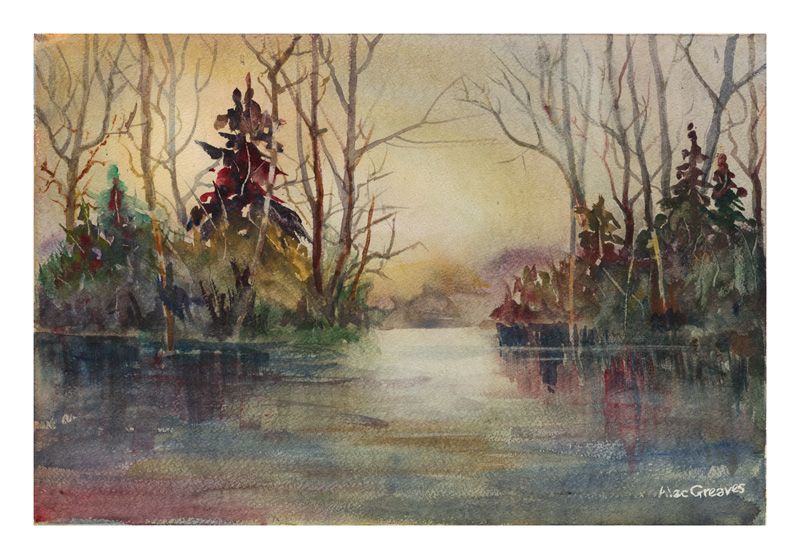
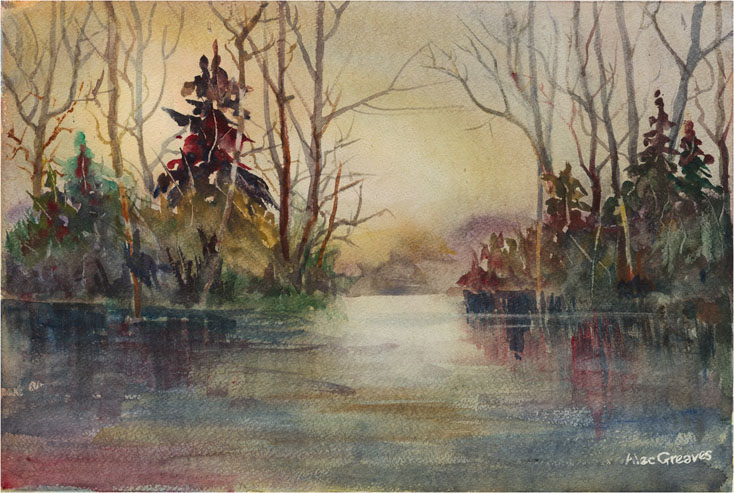
add better hazy morning image

diff --git a/index.html b/index.html
@@ -19,10 +19,10 @@ layout: default
 	<img src="images/harbour-boats.jpg">
 	<span>Harbour Boats</span>
 </div>
-<!-- <div class="painting">
+<div class="painting">
         <img src="images/hazy-morning.jpg">
 	<span>Hazy Morning</span>
-</div> -->
+</div>
 <div class="painting">
 	<img src="images/hibiscus-blooms.jpg">
 	<span>Hibiscus Blooms</span>
